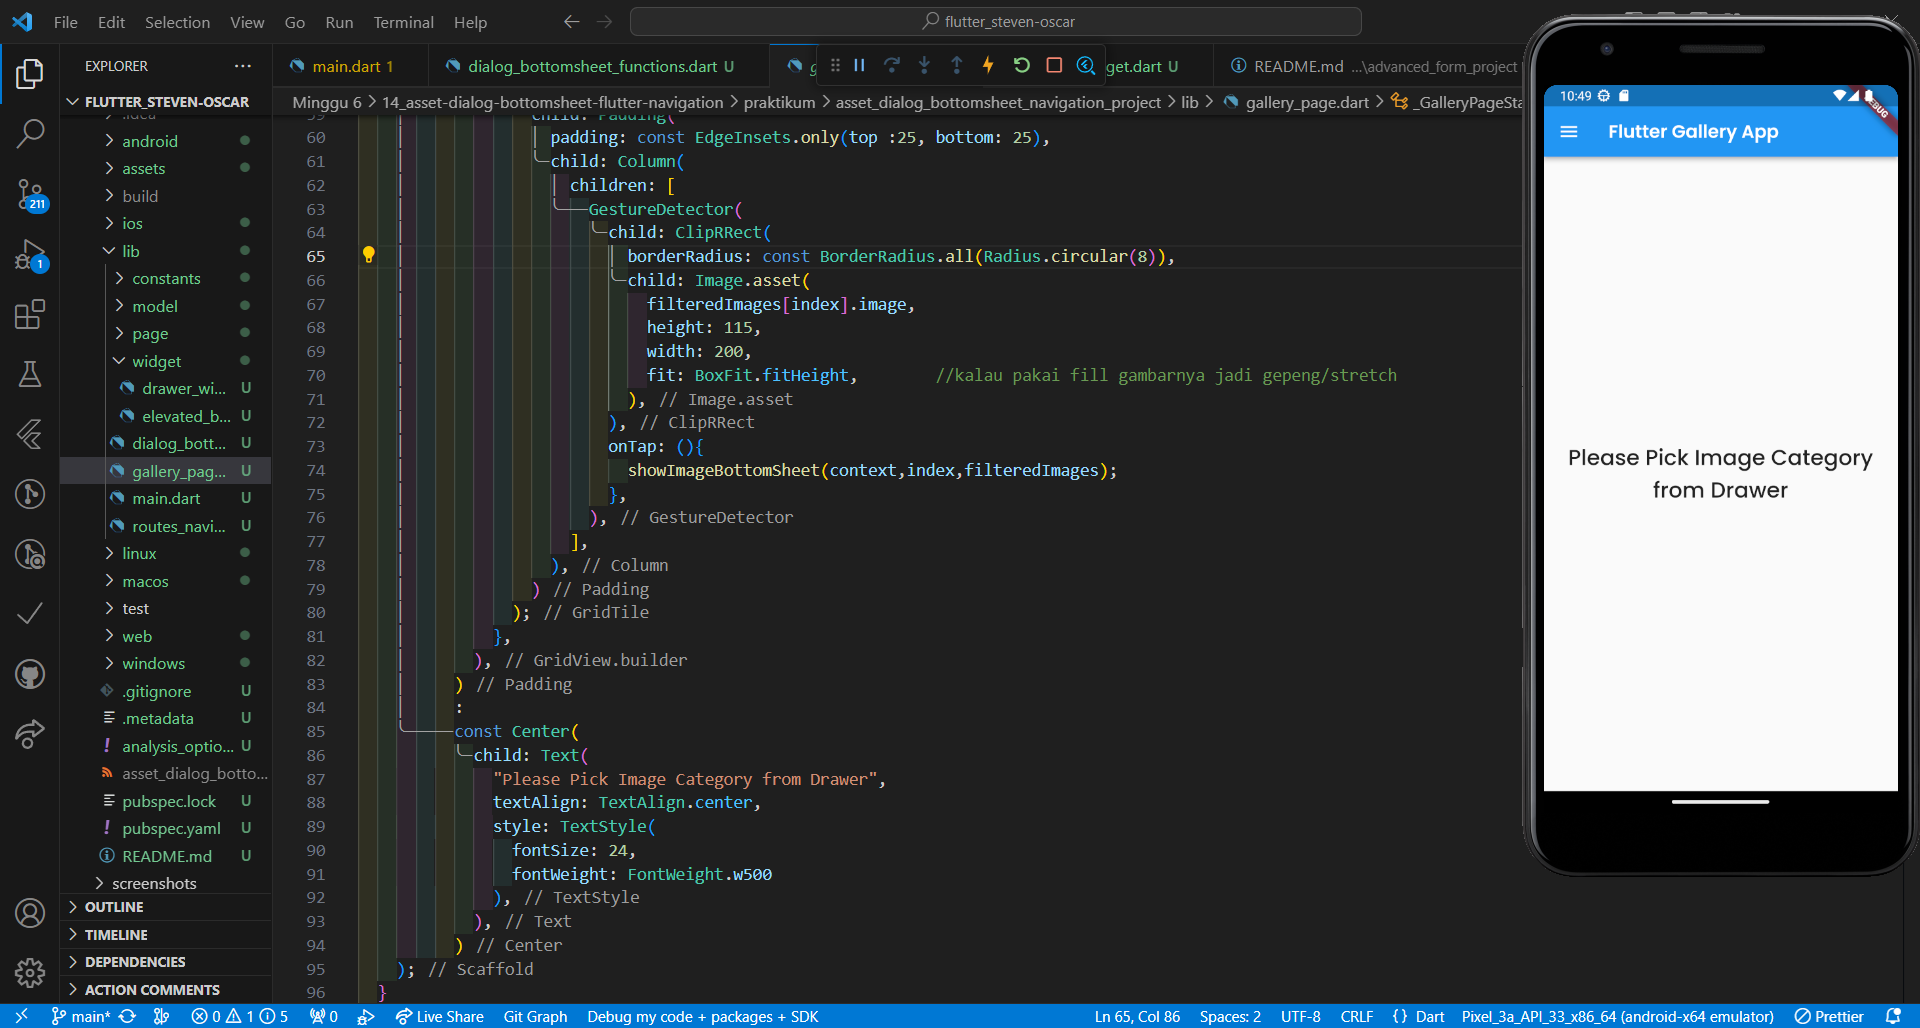
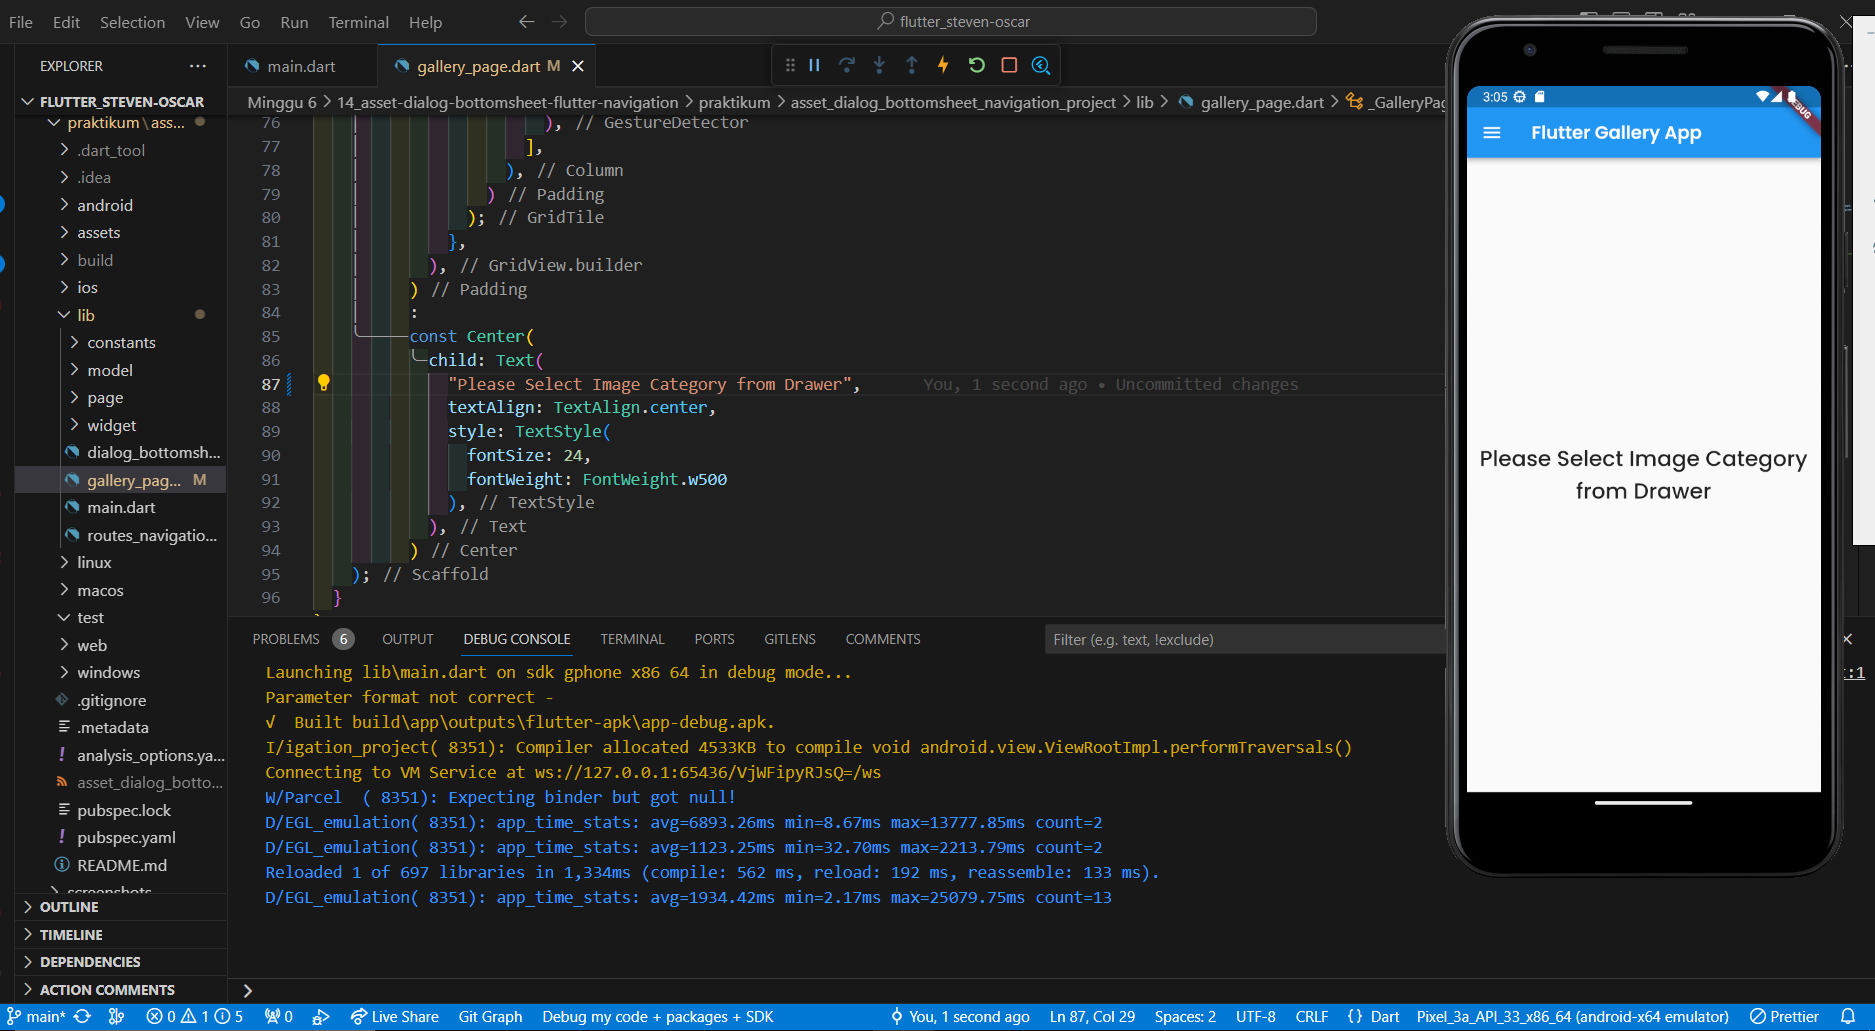
minor change

diff --git a/Minggu 6/14_asset-dialog-bottomsheet-flutter-navigation/praktikum/asset_dialog_bottomsheet_navigation_project/lib/gallery_page.dart b/Minggu 6/14_asset-dialog-bottomsheet-flutter-navigation/praktikum/asset_dialog_bottomsheet_navigation_project/lib/gallery_page.dart
@@ -84,7 +84,7 @@ class _GalleryPageState extends State<GalleryPage> {
           :
           const Center(
             child: Text(
-              "Please Pick Image Category from Drawer",
+              "Please Select Image Category from Drawer",
               textAlign: TextAlign.center,
               style: TextStyle(
                 fontSize: 24,
